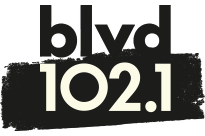
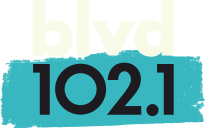
station updates

diff --git a/web/stations/stations-america.js b/web/stations/stations-america.js
@@ -37566,7 +37566,7 @@ var stations_canadream = {
         {
             name: "Pure Country 103.5",
             logo: "stations/images-america/canadream/fredericton/Pure Country 103.5.png",
-            url: "http://www.atsradiocanada.tk/index.php?ats=https://playerservices.streamtheworld.com/api/livestream-redirect/CKHJFMAAC_SC"
+            url: "http://www.atsradiocanada.tk/index.php?ats=https://playerservices.streamtheworld.com/api/livestream-redirect/CKHJAMAAC_SC"
         },
         {
             name: "CJRI Radio 104.5",
@@ -38943,6 +38943,11 @@ var stations_canadream = {
     ],
     "princegeorge": [
         {
+            name: "CFURadio 88.7",
+            logo: "stations/images-america/canadream/princegeorge/CFURadio 88.7.png",
+            url: "https://listen.cfur.ca/"
+        },
+        {
             name: "CBC Music 90.3",
             logo: "stations/images-america/canadream/CBC Music.png",
             url: "https://cbcliveradio2-lh.akamaihd.net/i/CBCR2_VCR@353638/master.m3u8"
@@ -38982,12 +38987,32 @@ var stations_canadream = {
             logo: "stations/images-america/canadream/princegeorge/101.3 The River.png",
             url: "https://redirect.jpbgdigital.com/CKKN"
         },
+        {
+            name: "Indigenous Hope Radio 102.7",
+            logo: "stations/images-america/canadream/princegeorge/Indigenous Hope Radio 102.7.png",
+            url: "https://usa18.fastcast4u.com/proxy/loudcrymedia4?mp=/1"
+        },
+        {
+            name: "Lighthouse FM 107.3",
+            logo: "stations/images-america/canadream/Lighthouse FM.png",
+            url: "http://s3.voscast.com:7820/;"
+        },
     ],
     "princerupert": [
         {
             name: "CFNR 98.1",
             logo: "stations/images-america/canadream/CFNR.png",
             url: "http://nnb.leanstream.co/CFNRFM"
+        },
+        {
+            name: "Bounce 99.1",
+            logo: "stations/images-america/canadream/princerupert/Bounce 99.1.png",
+            url: "http://www.atsradiocanada.tk/index.php?ats=https://playerservices.streamtheworld.com/api/livestream-redirect/CHTKFMAAC_SC"
+        },
+        {
+            name: "CJFW 101.9",
+            logo: "stations/images-america/canadream/princerupert/Pure Country 103.1.png",
+            url: "http://www.atsradiocanada.tk/index.php?ats=https://playerservices.streamtheworld.com/api/livestream-redirect/CJFWFMAAC_SC"
         },
         {
             name: "CBC Radio One 860",
@@ -39012,8 +39037,13 @@ var stations_canadream = {
             url: "http://69.67.15.163:8000/stream"
         },
         {
-            name: "WKND 91.9",
-            logo: "stations/images-america/canadream/quebec/WKND 91.9 FM.png",
+            name: "Radio Galilée 90.9",
+            logo: "stations/images-america/canadream/quebec/Radio Galilée 90.9.png",
+            url: "http://radiogalilee.com:8000/cionfm.mp3"
+        },
+        {
+            name: "wknd 91.9",
+            logo: "stations/images-america/canadream/quebec/WKND 91.9.png",
             url: "http://streaming.cjec.leclerccommunication.ca:8000/cjec.mp3"
         },
         {
@@ -39042,9 +39072,24 @@ var stations_canadream = {
             url: "http://cbcmp3.ic.llnwd.net/stream/cbcmp3_M-7QQUE0_QUE"
         },
         {
+            name: "CBC Music 96.1",
+            logo: "stations/images-america/canadream/CBC Music.png",
+            url: "https://cbcliveradio2-lh.akamaihd.net/i/CBCR2_VCR@353638/master.m3u8"
+        },
+        {
+            name: "96.9 Lévis",
+            logo: "stations/images-america/canadream/quebec/96.9 Lévis.png",
+            url: "https://stream2.statsradio.com:8074/live"
+        },
+        {
             name: "CHOI 98.1",
             logo: "stations/images-america/canadream/quebec/CHOI 98.1.png",
             url: "http://icecast-choi.rncm.ca/choi.mp3"
+        },
+        {
+            name: "98.9 ÉNERGIE",
+            logo: "stations/images-america/canadream/quebec/98.9 ÉNERGIE.png",
+            url: "http://www.atsradiocanada.tk/index.php?ats=https://playerservices.streamtheworld.com/api/livestream-redirect/CHIKFMAAC_SC"
         },
         {
             name: "Mix 99.7",
@@ -39057,12 +39102,17 @@ var stations_canadream = {
             url: "https://stream.lavibe.fm/chxx.aac"
         },
         {
-            name: "BLVD 102.1",
-            logo: "stations/images-america/canadream/quebec/BLVD 102.1.png",
+            name: "blvd 102.1",
+            logo: "stations/images-america/canadream/quebec/blvd 102.1.png",
             url: "http://streaming.cfel.leclerccommunication.ca:8000/cfel.mp3"
         },
         {
-            name: "CBC Radio One 102.7",
+            name: "rythme 102.9",
+            logo: "stations/images-america/canadream/quebec/rythme 102.9.png",
+            url: "http://www.atsradiocanada.tk/index.php?ats=https://newcap.leanstream.co/CFOMFM"
+        },
+        {
+            name: "CBC Radio One 104.7",
             logo: "stations/images-america/canadream/CBC Radio One.png",
             url: "https://cbcliveradio-lh.akamaihd.net/i/CBCR1_QQU@366526/master.m3u8"
         },
@@ -39070,6 +39120,16 @@ var stations_canadream = {
             name: "ICI Première 106.3",
             logo: "stations/images-america/canadream/ICI Première.png",
             url: "http://cbcmp3.ic.llnwd.net/stream/cbcmp3_P-2QQUE0_QUE"
+        },
+        {
+            name: "Sortir FM 106.9",
+            logo: "stations/images-america/canadream/quebec/Sortir FM 106.9.png",
+            url: "http://69.67.15.162:8000/stream"
+        },
+        {
+            name: "107.5 Rouge",
+            logo: "stations/images-america/canadream/quebec/107.5 Rouge.png",
+            url: "http://www.atsradiocanada.tk/index.php?ats=https://playerservices.streamtheworld.com/api/livestream-redirect/CITFFMAAC_SC"
         },
     ],
     "rdl": [
